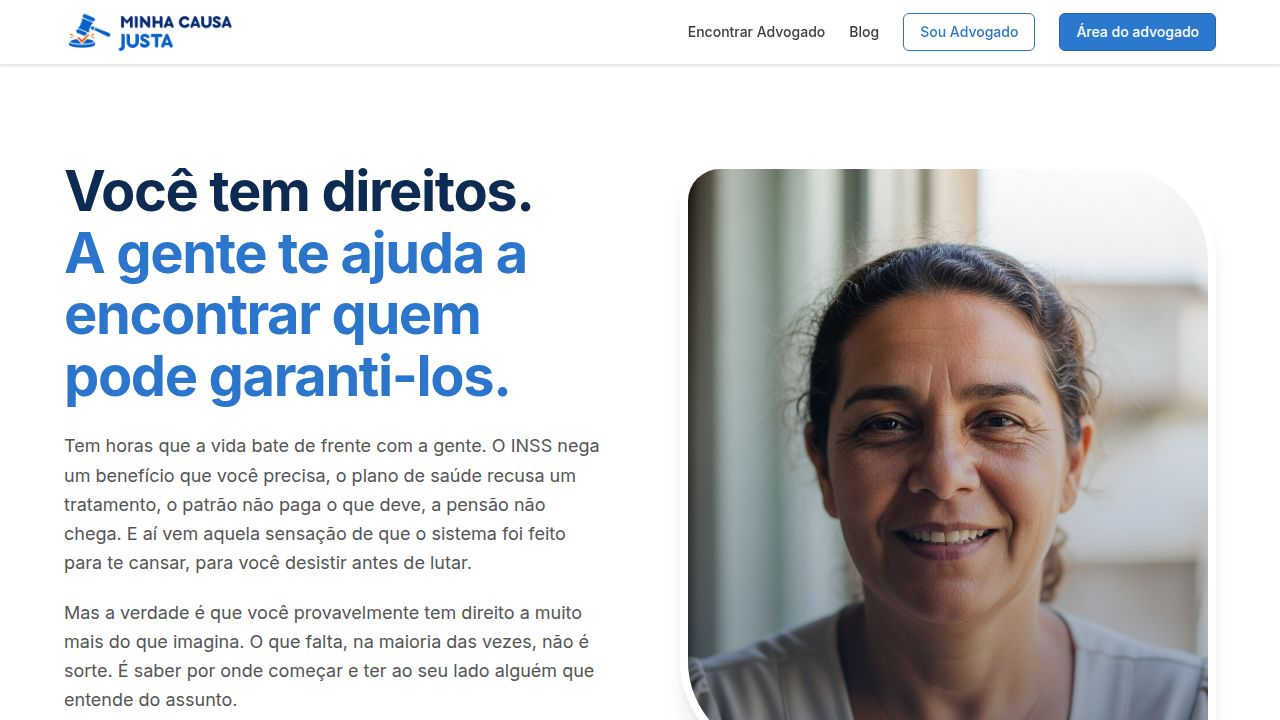
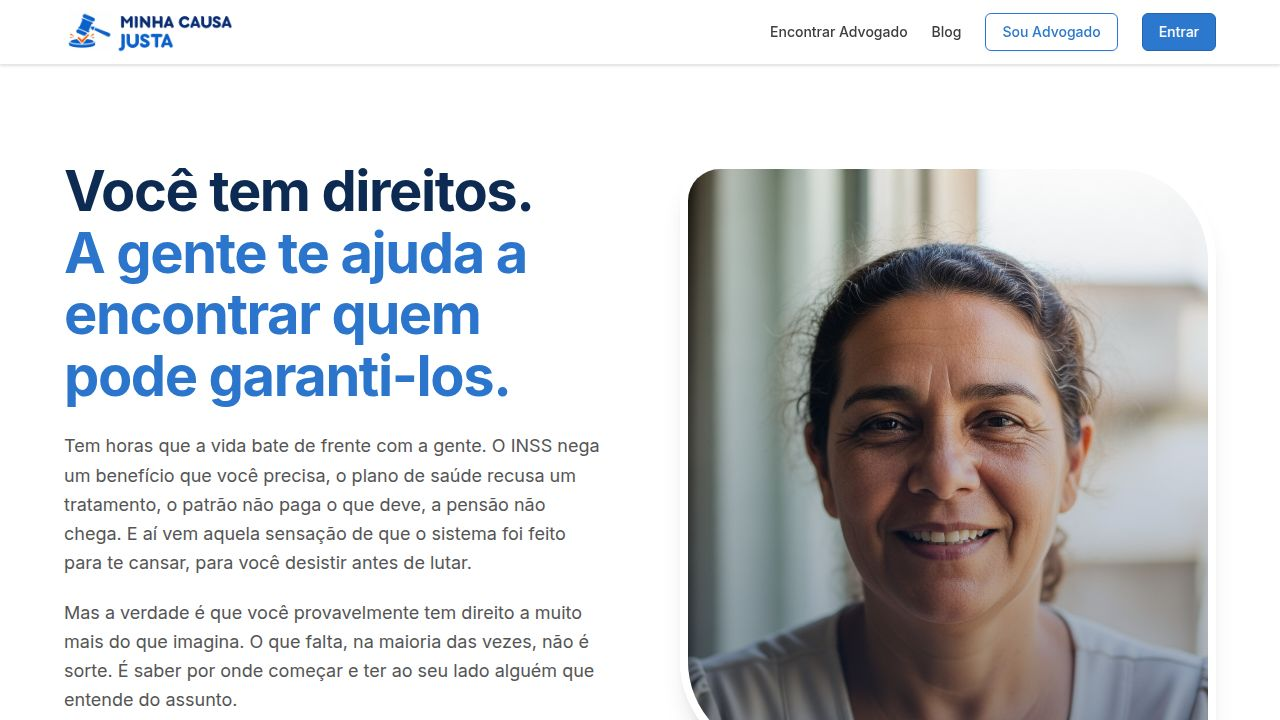
Add Google Analytics tracking for single-page application navigation
Integrate Google Analytics by adding the gtag.js snippet to index.html and implement a route change tracker in App.tsx to ensure all client-side navigations, including blog post views, are recorded as separate page views.

Replit-Commit-Author: Agent
Replit-Commit-Session-Id: 36ad0d7c-d41d-45f5-adae-abe5e839c8b2
Replit-Commit-Checkpoint-Type: full_checkpoint
Replit-Commit-Event-Id: fd2f1a0c-81f7-4b20-b478-85e6c0e72621
Replit-Commit-Screenshot-Url: https://storage.googleapis.com/screenshot-production-us-central1/c9af5688-d051-4bac-9de2-b3f0edbbadb6/36ad0d7c-d41d-45f5-adae-abe5e839c8b2/ntrMe7S
Replit-Helium-Checkpoint-Created: true

Changed region(s): [[0.5312, 0.0, 0.9375, 0.0917]]

diff --git a/artifacts/minha-causa-justa/src/App.tsx b/artifacts/minha-causa-justa/src/App.tsx
@@ -34,6 +34,12 @@ import PainelAssinatura from "@/pages/painel-assinatura";
 import Admin from "@/pages/admin";
 import logoUrl from "@assets/minhacausajusta_1782681470221.webp";
 
+declare global {
+  interface Window {
+    gtag?: (...args: unknown[]) => void;
+  }
+}
+
 const queryClient = new QueryClient();
 
 // Resolve a key a partir do hostname para que o mesmo build atenda múltiplos
@@ -116,6 +122,29 @@ function ScrollToTop() {
   const [location] = useLocation();
   useEffect(() => {
     window.scrollTo(0, 0);
+  }, [location]);
+  return null;
+}
+
+// Rastreia navegações do SPA no Google Analytics. O snippet no index.html já
+// registra o page_view inicial via gtag('config'); aqui contabilizamos apenas as
+// trocas de rota seguintes (ex.: cada post do blog, que muda de endereço sem
+// recarregar a página).
+function AnalyticsTracker() {
+  const [location] = useLocation();
+  const primeiraRenderizacao = useRef(true);
+  useEffect(() => {
+    if (primeiraRenderizacao.current) {
+      primeiraRenderizacao.current = false;
+      return;
+    }
+    if (typeof window.gtag === "function") {
+      window.gtag("event", "page_view", {
+        page_path: window.location.pathname + window.location.search,
+        page_location: window.location.href,
+        page_title: document.title,
+      });
+    }
   }, [location]);
   return null;
 }
@@ -213,6 +242,7 @@ function ClerkProviderWithRoutes() {
         <ClerkQueryClientCacheInvalidator />
         <TooltipProvider>
           <ScrollToTop />
+          <AnalyticsTracker />
           <Switch>
             <Route path="/" component={Home} />
             <Route path="/advogados" component={Advogados} />

diff --git a/artifacts/minha-causa-justa/index.html b/artifacts/minha-causa-justa/index.html
@@ -3,6 +3,15 @@
   <head>
     <meta charset="UTF-8" />
     <meta name="viewport" content="width=device-width, initial-scale=1.0, maximum-scale=1" />
+    <!-- Google tag (gtag.js) -->
+    <script async src="https://www.googletagmanager.com/gtag/js?id=G-JHK5SGDLBG"></script>
+    <script>
+      window.dataLayer = window.dataLayer || [];
+      function gtag(){dataLayer.push(arguments);}
+      gtag('js', new Date());
+
+      gtag('config', 'G-JHK5SGDLBG');
+    </script>
     <title>Minha Causa Justa</title>
     <meta name="description" content="Minha Causa Justa — built on Replit. Update this description to reflect the app." />
     <meta name="robots" content="index, follow" />